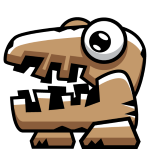
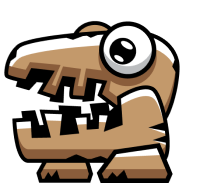
finished monster spawning and edited sprites

diff --git a/Chamber of Echoes/sketch.js b/Chamber of Echoes/sketch.js
@@ -26,6 +26,8 @@ function preload() {
   chomperMonsterImage = loadImage("assets/monsters/chomper.png");
   blueBeanMonsterImage = loadImage("assets/monsters/blueBean.png");
   spikySlimeMonsterImage = loadImage("assets/monsters/spikySlime.png");
+  dizzyMonsterImage = loadImage("assets/monsters/dizzy.png");
+  fireDemonMonsterImage = loadImage("assets/monsters/fireDemon.png");
 }
 
 //sets up the canvas, center modes (rect, text, image), playmodes for sounds, and runs the setup for the cards
@@ -42,6 +44,7 @@ function setup() {
   backgroundMusic.loop();
   cardClassSetup();
   monsterSetup();
+  console.log(width * monsterLocationOne[0]);
 }
 
 //setup all the variables
@@ -71,11 +74,12 @@ let whiteCard, blueCard, greenCard, redCard, yellowCard;
 let card1, card2, card3, card4, card5, card6, card7;
 let playButton, optionsButton, quitButton, darkOptionButton, lightOptionButton, soundOptionButton, backOptionButton, backPlayButton;
 
-let chomperMonster, blueBeanMonster, spikySlimeMonster;
-let chomperMonsterImage, blueBeanMonsterImage, spikySlimeMonsterImage;
-let monsterSpriteList = [chomperMonsterImage, blueBeanMonsterImage, spikySlimeMonsterImage];
+let chomperMonster, blueBeanMonster, spikySlimeMonster, dizzyMonster, fireDemonMonster;
+let chomperMonsterImage, blueBeanMonsterImage, spikySlimeMonsterImage, dizzyMonsterImage, fireDemonMonsterImage;
+let monsterSpriteList = [chomperMonsterImage, blueBeanMonsterImage, spikySlimeMonsterImage, dizzyMonsterImage, fireDemonMonsterImage];
 let monsterOne, monsterTwo, monsterThree;
-let monsterList = [chomperMonster, blueBeanMonster, spikySlimeMonster];
+let monsterList = [chomperMonster, blueBeanMonster, spikySlimeMonster, dizzyMonster, fireDemonMonster];
+
 let monsterLocationOne = [1/3, 1/2];
 let monsterLocationTwo = [1/2, 1/4];
 let monsterLocationThree = [2/3, 1/2];
@@ -116,7 +120,7 @@ function displayMenu() {
 //shows the card game (where for now cards can be dragged around individually)
 function displayGame() {
   if (gameState === "game") {
-    spikySlimeMonster.showMonster();
+    spawnMonsters(3);
     cardBehavior();
     backPlayButton.show();
     if (backPlayButton.isClicked()) {
@@ -196,10 +200,15 @@ function cardStatSetup() {
 function monsterSetup() {
   chomperMonster = new Monster("Chomper", 0, 25, 55, "Bite", "Consume", "Defend");
   blueBeanMonster = new Monster("Blue Bean", 1, 20, 50, "Slap", "Smack", "Defend");
-  spikySlimeMonster = new Monster("Spiky Slime", 2, 60, 60, "Slap", "SpikeUp", "Defend");
+  spikySlimeMonster = new Monster("Spiky Slime", 2, 30, 60, "Slap", "SpikeUp", "Defend");
+  dizzyMonster = new Monster("Dizzy", 3, 20, 45, "Hypnosis", "Smack", "Defend");
+  fireDemonMonster = new Monster("Fire Demon", 4, 25, 55, "Burn", "Smack", "Defend");
+
   chomperMonster.monsterImage = chomperMonsterImage;
   blueBeanMonster.monsterImage = blueBeanMonsterImage;
   spikySlimeMonster.monsterImage = spikySlimeMonsterImage;
+  dizzyMonster.monsterImage = dizzyMonsterImage;
+  fireDemonMonster.monsterImage = fireDemonMonsterImage;
 }
 
 //checks when the mouse is released
@@ -207,6 +216,7 @@ function mouseReleased() {
   cardInHand = false;
   draggingCardID = 0;
   muteButtonReady = true;
+  monstersSpawned = false;
   //console.log(mouseX + ", " + mouseY);
 }
 
@@ -251,6 +261,83 @@ function keyPressed() {
     newCardType = cardColourList[4];
     colourChange = true;
   }
+}
+
+function spawnMonsters(spawnNumber) {
+  if (!monstersSpawned && spawnNumber >= 1 && spawnNumber <= 3) {
+    monstersSpawned = true;
+
+    //Monster One
+    monsterType = round(random(1, 5));
+    if (monsterType === 1) {
+      monsterOne = chomperMonster;
+    }
+    else if (monsterType === 2) {
+      monsterOne = blueBeanMonster;
+    }
+    else if (monsterType === 3) {
+      monsterOne = spikySlimeMonster;
+    }
+    else if (monsterType === 4) {
+      monsterOne = dizzyMonster;
+    }
+    else if (monsterType === 5) {
+      monsterOne = fireDemonMonster;
+    }
+
+    //Monster Two
+    monsterType = round(random(1, 3));
+    if (monsterType === 1) {
+      monsterTwo = chomperMonster;
+    }
+    else if (monsterType === 2) {
+      monsterTwo = blueBeanMonster;
+    }
+    else if (monsterType === 3) {
+      monsterTwo = spikySlimeMonster;
+    }
+    else if (monsterType === 4) {
+      monsterTwo = dizzyMonster;
+    }
+    else if (monsterType === 5) {
+      monsterTwo = fireDemonMonster;
+    }
+
+    //Monster Three
+    monsterType = round(random(1, 3));
+    if (monsterType === 1) {
+      monsterThree = chomperMonster;
+    }
+    else if (monsterType === 2) {
+      monsterThree = blueBeanMonster;
+    }
+    else if (monsterType === 3) {
+      monsterThree = spikySlimeMonster;
+    }
+    else if (monsterType === 4) {
+      monsterThree = dizzyMonster;
+    }
+    else if (monsterType === 5) {
+      monsterThree = fireDemonMonster;
+    }
+
+    //console.log(monsterOne, monsterTwo, monsterThree);
+  }
+
+  
+  monsterOne.xPosition = width * monsterLocationOne[0]; 
+  monsterOne.yPosition = height * monsterLocationOne[1];
+  image(monsterOne.monsterImage, monsterOne.xPosition, monsterOne.yPosition);
+
+  monsterTwo.xPosition = width * monsterLocationTwo[0]; 
+  monsterTwo.yPosition = height * monsterLocationTwo[1];
+  image(monsterTwo.monsterImage, monsterTwo.xPosition, monsterTwo.yPosition);
+
+  monsterThree.xPosition = width * monsterLocationThree[0]; 
+  monsterThree.yPosition = height * monsterLocationThree[1];
+  image(monsterThree.monsterImage, monsterThree.xPosition, monsterThree.yPosition);
+  
+  
 }
 
 //defines the class used for the card's behavior
@@ -412,42 +499,13 @@ class Monster {
 
   constructor(name, imageNumber, health, gold, attackOne, attackTwo, attackThree) {
     this.monsterName = name;
-    // this.monsterImage = monsterSpriteList[imageNumber];
+    this.monsterImage = monsterSpriteList[imageNumber];
     this.monsterHealth = health;
     this.monsterGold = gold;
     this.monsterAttackOne = attackOne;
     this.monsterAttackTwo = attackTwo;
     this.monsterAttackThree = attackThree;
-    this.monsterNumber = round(random(1, 3));
-  }
-  
-  spawnMonsters(spawnNumber) {
-    if (!monstersSpawned) {
-      monstersSpawned = true;
-      for(spawnNumber; spawnNumber > 0; spawnNumber--) {
-        monsterList[0].monsterNumber = 1;
-        monsterList[1].monsterNumber = 1;
-        monsterList[2].monsterNumber = 1;
-      }
-    }
-  }
-
-  showMonster() {
-    if (this.monsterNumber === 1) {
-      this.xPosition = width * monsterLocationOne[0]; 
-      this.yPosition = height * monsterLocationOne[1];
-      image(this.monsterImage, this.xPosition, this.yPosition);
-    }
-    else if (this.monsterNumber === 2) {
-      this.xPosition = width * monsterLocationTwo[0]; 
-      this.yPosition = height * monsterLocationTwo[1];
-      image(this.monsterImage, this.xPosition, this.yPosition);
-    }
-    else if (this.monsterNumber === 3) {
-      this.xPosition = width * monsterLocationThree[0]; 
-      this.yPosition = height * monsterLocationThree[1];
-      image(this.monsterImage, this.xPosition, this.yPosition);
-    }
-    console.log(this.monsterNumber);
+    this.xPosition = 0;
+    this.yPosition = 0;
   }
 }
